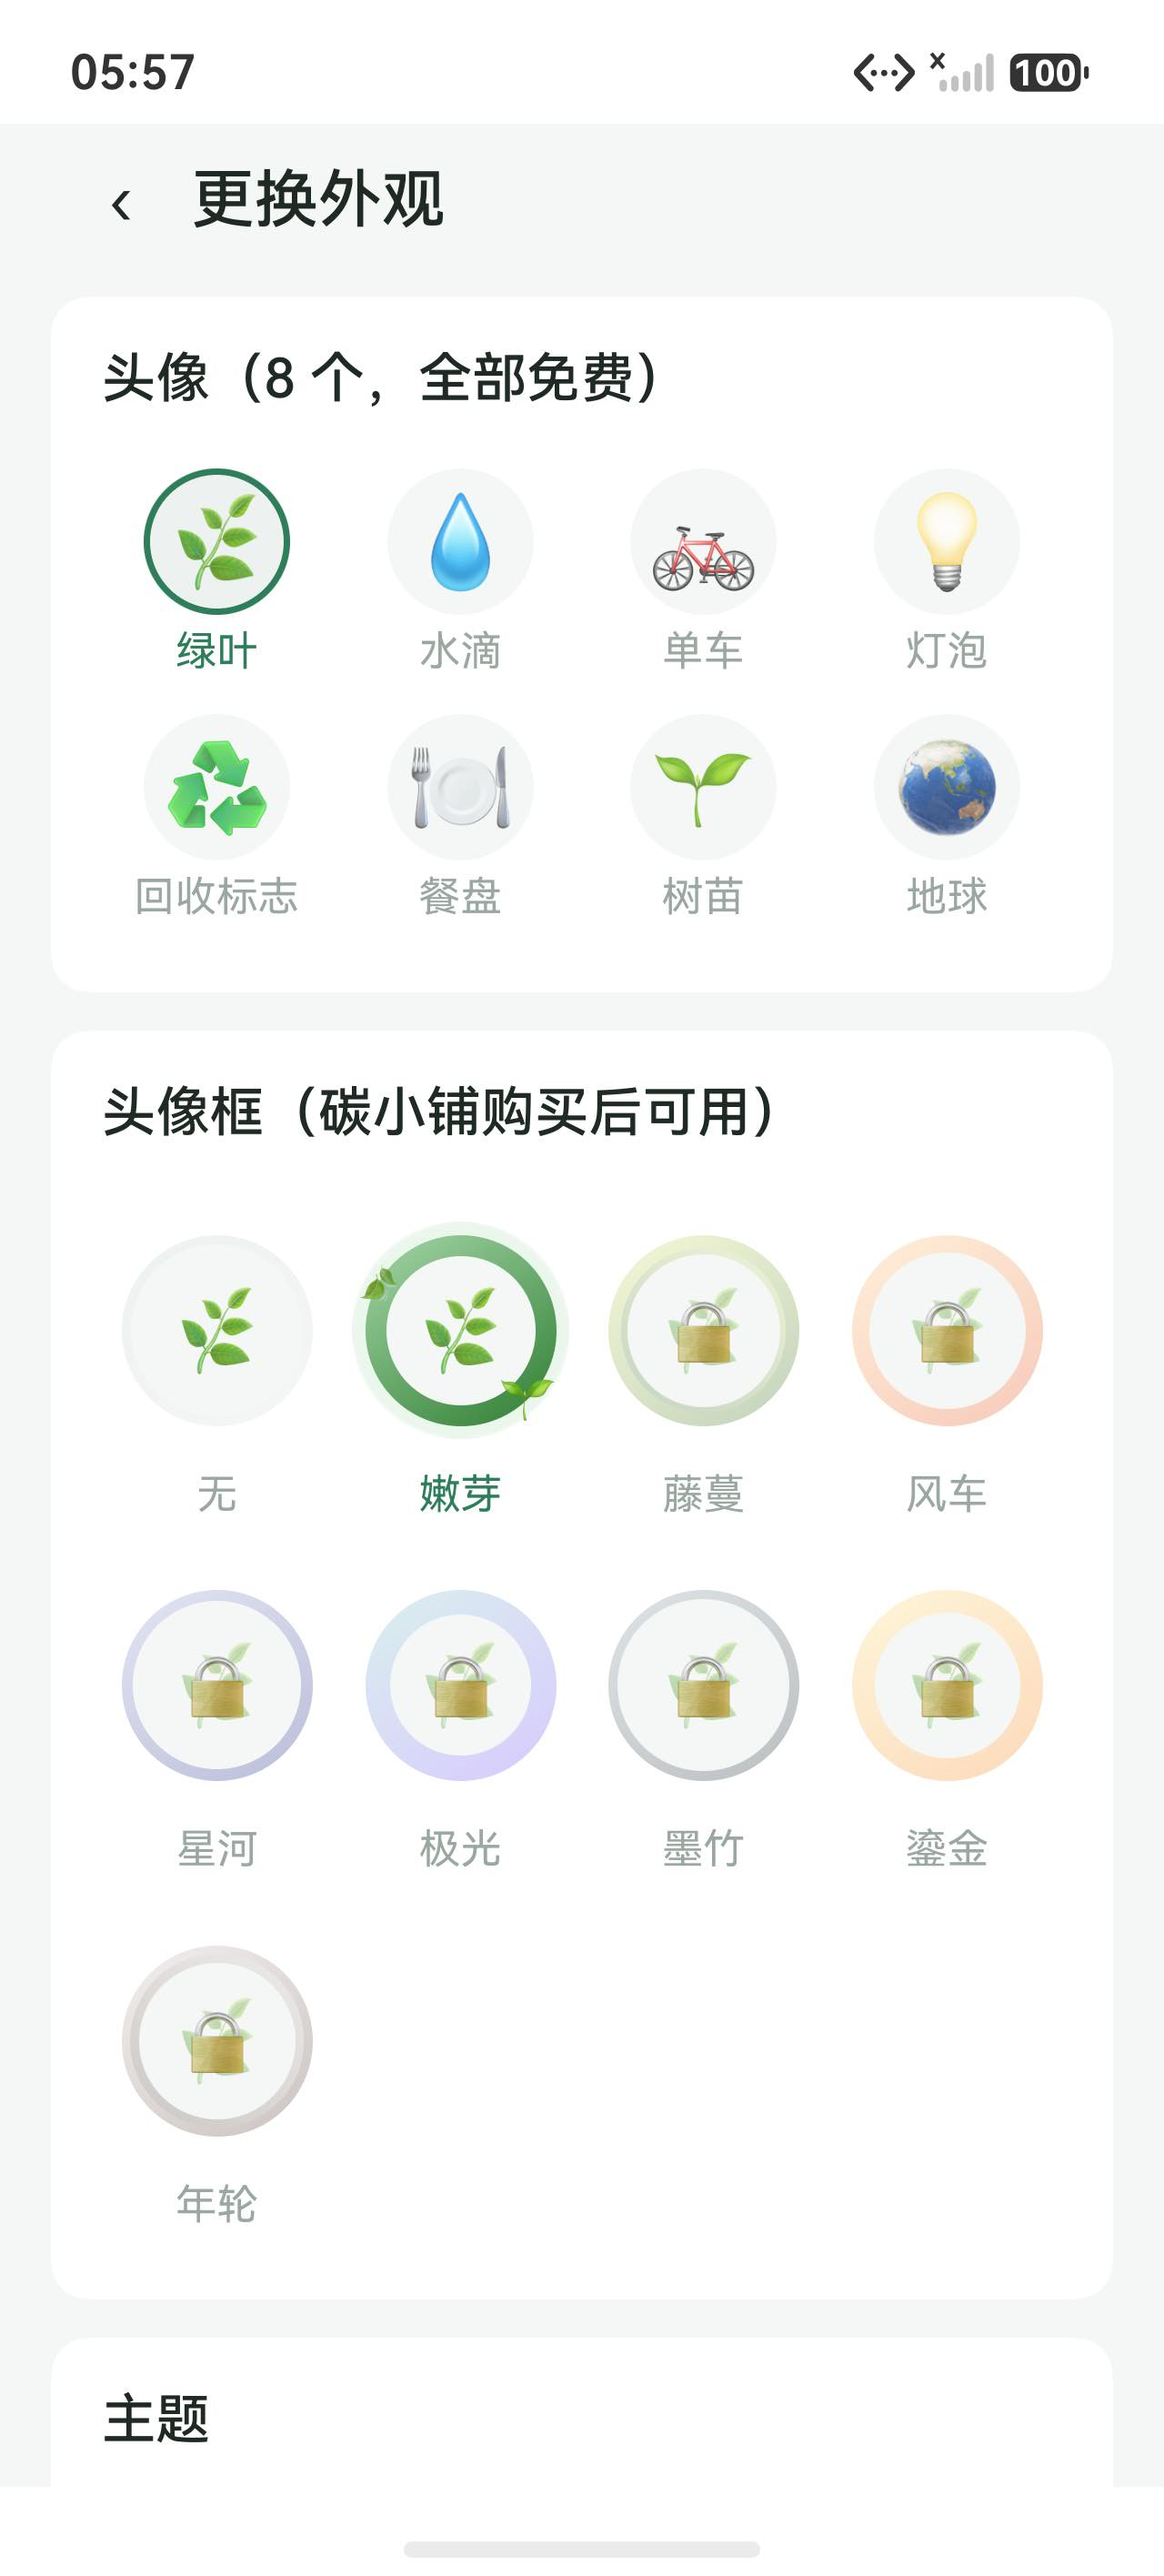
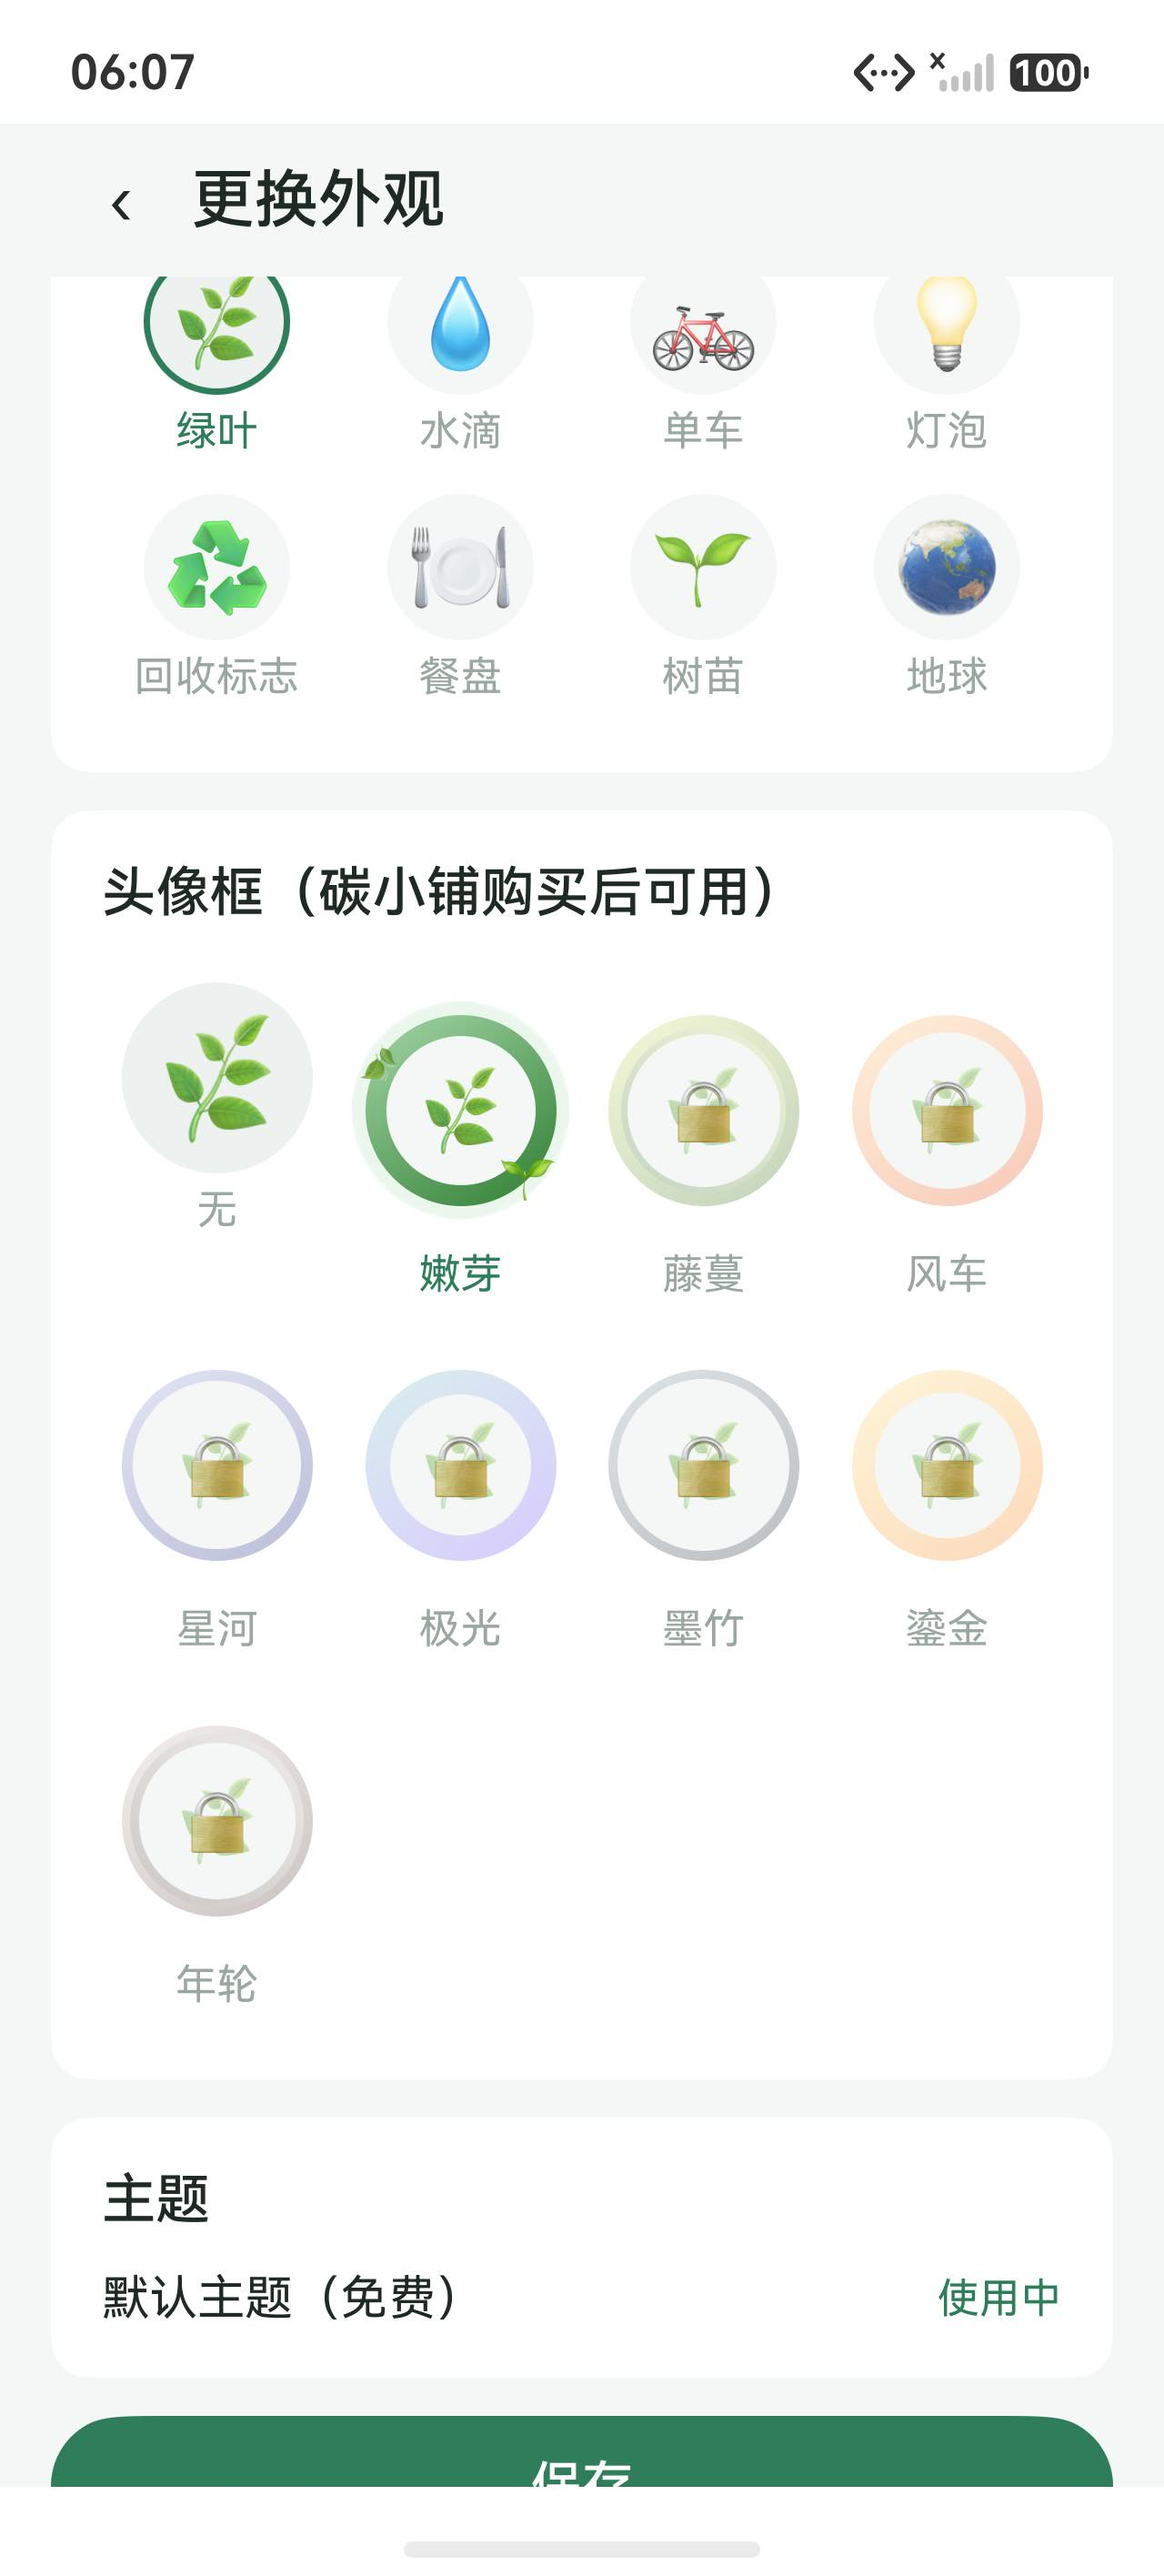
fix(appearance): 「无」不该提示去兑换
改了什么：
- AppearancePage.frameCell：id 为空（=  不戴框）时不再走「未拥有」分支，
  只有真的框且在 owned 之外才提示「请先到碳小铺兑换」
- AvatarWithFrame：frameId 为空时只画头像本体，不再画一圈淡环（避免被读成又一种框）
- CHANGELOG v4.20；重拍 12-appearance / 05-mine

跑了什么：assembleHap BUILD SUCCESSFUL、sign-hap.ps1 -Debug verify-app success、
hdc install -r install bundle successfully、check_l0.py --strict PASS、l1_offline 49/49（CalcBaseline 323 断言一致）

结果：通过。实测点「无」不再弹提示，选中即等价于「不戴框」。

diff --git a/docs/CHANGELOG.md b/docs/CHANGELOG.md
@@ -6,6 +6,7 @@
 
 | 版本 | 日期 | 主题 |
 |---|---|---|
+| 2026-11-01 | **v4.20（「无」不是商品）**：`pages/AppearancePage.ets` 的 `frameCell` 把 `frameId === ''`（=  不戴框）当成「未拥有」→ 点「无」会弹「请先到碳小铺兑换」。改为 `id.length > 0 && owned.indexOf(id) < 0` 才拦；同时 `components/AvatarWithFrame.ets` 在 `frameId === ''` 时**只画头像本体**（不再画一圈淡环，避免被误读成「又一种框」） | 用户 m06282「我点这个无会提醒我到碳小铺购买，没有的东西我买什么」 |
 | 2026-11-01 | **v4.19（三个真 bug + 自动佩戴）**：① `pages/MinePage.ets` 的 `reload()` **漏给 `this.frameId` 赋值** → 「我的」页头像永远不戴框（买了也看不出生效）；② 「碳小铺」行用 `@Builder rowItem(..., `${this.frameCount} 个头像框`, ...)` 这类**按值传参**的写法，数字钉死在首帧 → 改成 `rowItemDynamic(..., () => ...)` 闭包版；③ `PointService.todayEarned()` 把当日**全部** `point_record` 求和（含碳小铺兑换的负数流水）→ 兑换后首页显示「今日记录 2 条 · +-1,350 分」，改为 `points > 0` 且 `v > 0 ? v : 0`；④ 购买头像框后由 `pages/ShopPage.ets` 顺手 `appearance.save(...)` 自动佩戴 | 用户反馈「头像框和头像一样」「兑换失败」「今日已得是负数」 |
 | 2026-11-01 | **v4.18（头像框重做为「环 + 饰物」）**：新建 `components/AvatarWithFrame.ets`，用 `Stack` 三层画「渐变外圆 = 环 / 同色内圆遮罩挖空 / 环心 emoji = 头像」+ 外发光 + 可选内圈细环 + 按角度钉在环上的饰物；8 个框靠**粗细/层数/光晕/饰物位置**区分（嫩芽 0.11 + 🌱45°🍃210°、藤蔓双环 + 🌿135°、风车 + 🟡 三点、星河 🎡…）；未解锁只画淡环 + 🔒。踩坑：`@Prop size` 与 `CommonAttribute.size` 冲突（`Property 'size' ... not assignable`）→ 改名 `diameter` | 用户 m06006「头像框可以再做的好看有特色点吗」 |
 | **v4.17** | 2026-11-01 | **头像框此前被画成「第二个 emoji」，与头像无法区分** —— 用户反馈「这头像框怎么能和头像一样呢」。根因：`viewmodel/domain/ShopRules.ets` 的 `frameIcon()` 把 8 个框映射成 8 个 emoji，「更换外观」与「碳小铺」又把框和头像**并排**渲染成同样大小的圆形图标，视觉上分不清「戴的环」与「头像本体」。改法：新增 `app/entry/src/main/ets/components/AvatarWithFrame.ets`，用 `Stack` 三层画 —— ① 渐变外圆（环）② 与卡片底同色的内圆遮罩（把中心挖空）③ 环心 emoji（头像本体），已解锁且装框时再画 ④ 右下角角标（🌱🌿🎡✨🌠🎋👑🍂）；环宽 `diameter × 0.09`（最小 3），角标 `diameter × 0.30` 压在右下 45°；未拥有时环透明度 0.30、中心叠 🔒、**不画角标**，「无（不戴框）」恒为可选、不算未拥有。接线三处：`components/ShopItemCard.ets`、`pages/AppearancePage.ets`、`pages/MinePage.ets`；`util/AppTheme.ets` 新增 `ICON_XL = 60`。**踩坑**：`@Prop size` 与组件内置属性 `size`（`(value: SizeOptions) => CommonAttribute`）冲突 → 必须改名（本项目用 `diameter`）。**未改任何数值**，`tests/cases/carbon-calc.json` 零改动、`docConflicts` 仍 0 条；重拍 `docs/screenshots/08-shop.png`、`12-appearance.png` | 用户反馈「头像框和头像一样」 |
